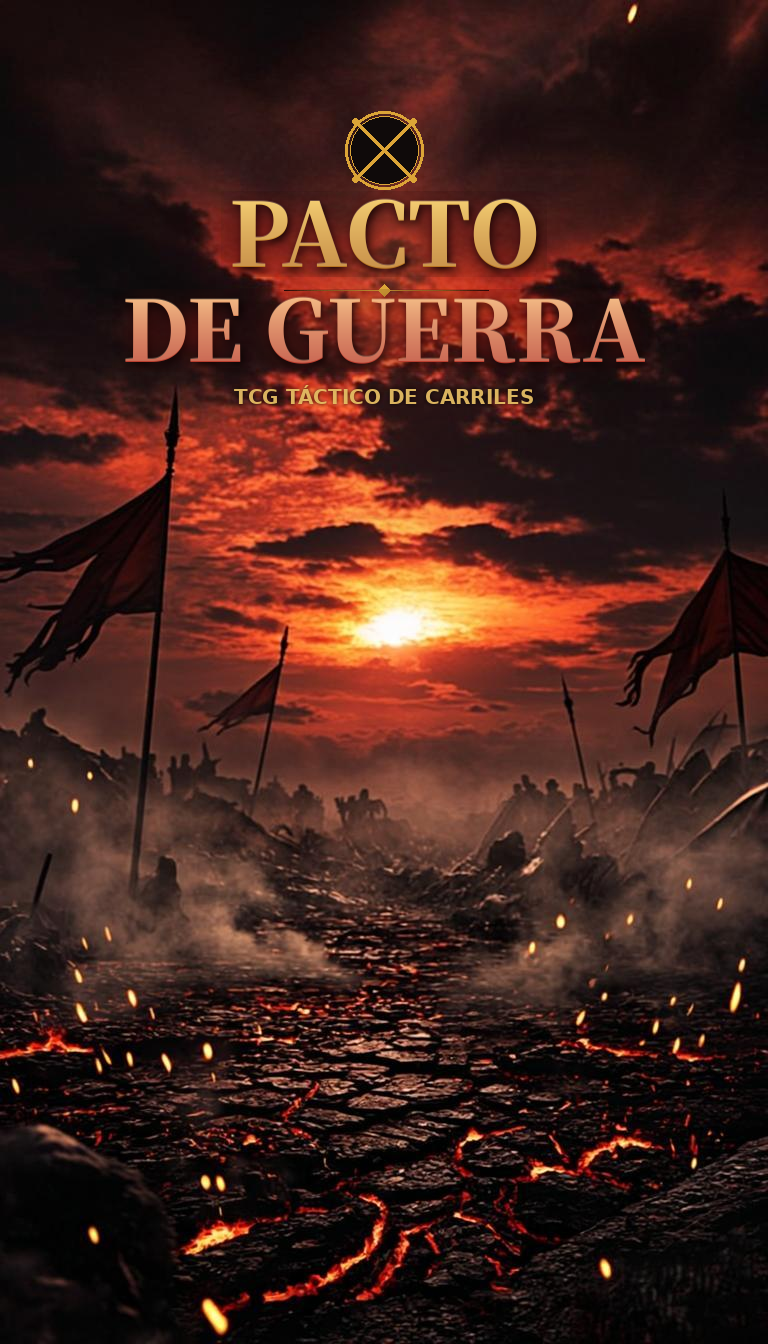
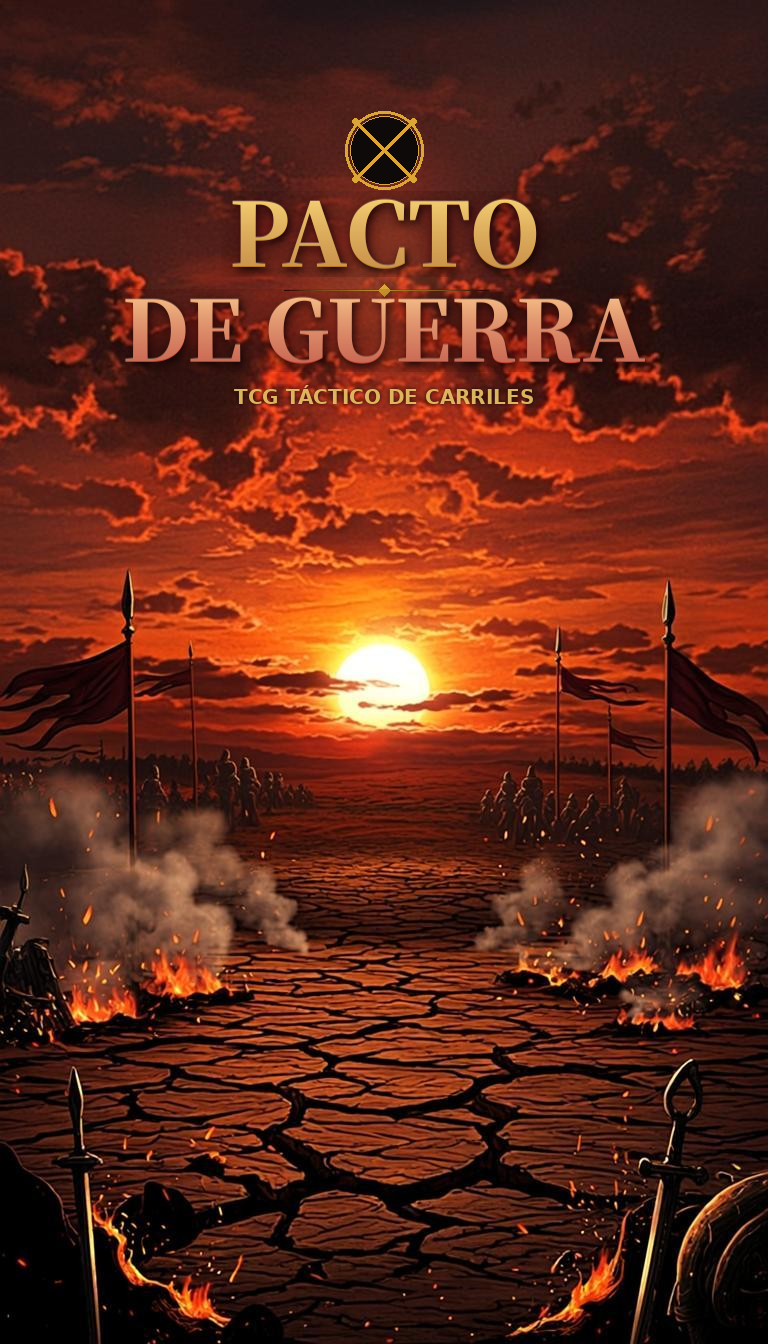
art: stylized realism menu background (WoW/Hearthstone/Diablo IV vibe)
Tighten the AI prompt to explicitly target stylized realism:
- 'stylized realism digital painting, hand-painted cinematic splash art'
- 'like Hearthstone card art, World of Warcraft TCG illustration, Diablo IV key art'
- 'realistic proportions + lighting but with painterly brushwork visible'
- 'dramatic high-contrast lighting with saturated warm palette'
- 'NOT photorealistic, NOT anime'

VLM verification confirms the new style matches Blizzard's high-fantasy painterly
look, with the gold/crimson title integrating seamlessly into the dusk sky palette.

diff --git a/scripts/gen-menu-bg.ts b/scripts/gen-menu-bg.ts
@@ -10,25 +10,30 @@ async function main() {
   const zai = await ZAI.create();
 
   const prompt = [
+    // Style anchor: stylized realism (Hearthstone / WoW TCG / Diablo IV splash art)
+    'stylized realism digital painting, hand-painted cinematic splash art',
+    'like Hearthstone card art, World of Warcraft TCG illustration, Diablo IV key art',
+    'realistic proportions and lighting but with painterly brushwork visible',
+    'dramatic high-contrast lighting with saturated warm color palette',
+    'digital painting with visible brush strokes, not photorealistic, not anime',
     // Subject + mood
-    'dark fantasy tactical card game menu background, vertical portrait',
-    'grimdark medieval battlefield at dusk with crimson and amber sky',
-    // Visual elements (no text!)
-    'cracked blood-red battlefield ground with floating embers and ash',
-    'tattered war banners and silhouetted crossed spears in the distance',
-    'smoke and dust drifting through the air',
-    'dramatic chiaroscuro lighting from below, dramatic war tableau',
+    'tactical card game main menu background, vertical portrait',
+    'epic medieval battlefield at dusk under a crimson and gold sky',
+    // Foreground elements (painterly, stylized-realism)
+    'stylized realistic crossed battle banners and ornate spears silhouetted in the distance',
+    'cracked earth battlefield with glowing ember particles floating upward',
+    'drifting smoke and dust clouds catching warm rim light',
     // Composition constraints
     'empty negative space in the upper third of the frame for title overlay',
-    'deep rich blacks and warm gold accents, atmospheric depth',
-    'vertical portrait composition with vignette',
-    // STRICT no-text directives (repeat to reinforce)
+    'rich deep blacks at the edges, warm amber and crimson glow at the center',
+    'vertical portrait composition with strong vignette',
+    // STRICT no-text directives
     'absolutely no text anywhere in the image',
     'no letters, no words, no alphabet, no writing, no symbols, no glyphs',
     'no signage, no inscriptions, no labels, no captions',
     'clean empty negative space, no watermark',
     // Quality
-    'highly detailed digital painting, cinematic, professional concept art',
+    'professional concept art, ArtStation featured quality, cinematic depth of field',
   ].join(', ');
 
   console.log('Generating main menu background...');
